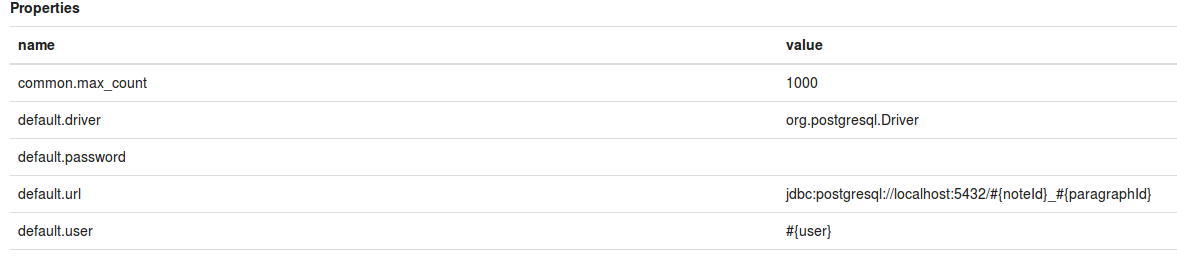
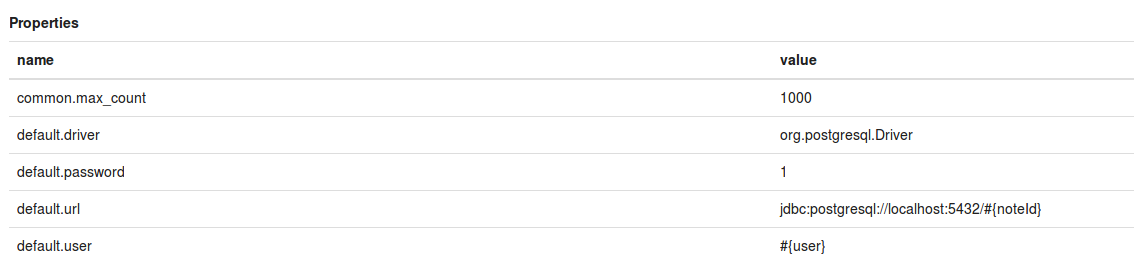
[ZEPPELIN-1999] skip fields of paragraph

diff --git a/zeppelin-interpreter/src/test/java/org/apache/zeppelin/interpreter/InterpreterTest.java b/zeppelin-interpreter/src/test/java/org/apache/zeppelin/interpreter/InterpreterTest.java
@@ -56,12 +56,14 @@ public class InterpreterTest {
   public void testPropertyWithReplacedContextFields() {
     String noteId = "testNoteId";
     String paragraphTitle = "testParagraphTitle";
+    String paragraphText = "testParagraphText";
+    String paragraphId = "testParagraphId";
     String user = "username";
     InterpreterContext.set(new InterpreterContext(noteId,
-        null,
+        paragraphId,
         null,
         paragraphTitle,
-        null,
+        paragraphText,
         new AuthenticationInfo("testUser", "testTicket"),
         null,
         null,
@@ -70,7 +72,7 @@ public class InterpreterTest {
         null,
         null));
     Properties p = new Properties();
-    p.put("p1", "paragraphTitle #{noteId}, #{paragraphTitle}, #{replName}, #{noteId}, #{user}," +
+    p.put("p1", "replName #{noteId}, #{paragraphTitle}, #{paragraphId}, #{paragraphText}, #{replName}, #{noteId}, #{user}," +
         " #{authenticationInfo}");
     MockInterpreterA intp = new MockInterpreterA(p);
     intp.setUserName(user);
@@ -78,8 +80,8 @@ public class InterpreterTest {
     InterpreterContext.remove();
 
     assertEquals(
-        String.format("paragraphTitle %s, %s, , %s, %s, #{authenticationInfo}", noteId,
-            paragraphTitle, noteId, user),
+        String.format("replName %s, #{paragraphTitle}, #{paragraphId}, #{paragraphText}, , %s, %s, #{authenticationInfo}", noteId,
+            noteId, user),
         actual
     );
   }

diff --git a/zeppelin-interpreter/src/main/java/org/apache/zeppelin/interpreter/Interpreter.java b/zeppelin-interpreter/src/main/java/org/apache/zeppelin/interpreter/Interpreter.java
@@ -310,6 +310,7 @@ public abstract class Interpreter {
     InterpreterContext interpreterContext = InterpreterContext.get();
     if (interpreterContext != null) {
       String markerTemplate = "#\\{%s\\}";
+      List<String> skipFields = Arrays.asList("paragraphTitle", "paragraphId", "paragraphText");
       List typesToProcess = Arrays.asList(String.class, Double.class, Float.class, Short.class,
           Byte.class, Character.class, Boolean.class, Integer.class, Long.class);
       for (String key : properties.stringPropertyNames()) {
@@ -317,7 +318,8 @@ public abstract class Interpreter {
         if (StringUtils.isNotEmpty(p)) {
           for (Field field : InterpreterContext.class.getDeclaredFields()) {
             Class clazz = field.getType();
-            if (typesToProcess.contains(clazz) || clazz.isPrimitive()) {
+            if (!skipFields.contains(field.getName()) && (typesToProcess.contains(clazz)
+                || clazz.isPrimitive())) {
               try {
                 Object value = FieldUtils.readField(field, interpreterContext, true);
                 p = p.replaceAll(String.format(markerTemplate, field.getName()),

diff --git a/docs/manual/interpreters.md b/docs/manual/interpreters.md
@@ -42,7 +42,7 @@ Zeppelin interpreter setting is the configuration of a given interpreter on Zepp
 <img src="../assets/themes/zeppelin/img/screenshots/interpreter_setting.png" width="500px">
 
 Properties are exported as environment variable when property name is consisted of upper characters, numbers and underscore ([A-Z_0-9]). Otherwise set properties as JVM property. 
-You may use parameters from the context of interpreter by add #{contextParameterName} in value, parameter can be of the following types: string, number, boolean. The list of available context parameters can be viewed in the class [InterpreterContext.java](https://github.com/apache/zeppelin/blob/master/zeppelin-interpreter/src/main/java/org/apache/zeppelin/interpreter/InterpreterContext.java) + parameter #{user}.
+You may use parameters from the context of interpreter by add #{contextParameterName} (except fields of paragraph) in value, parameter can be of the following types: string, number, boolean. The list of available context parameters can be viewed in the class [InterpreterContext.java](https://github.com/apache/zeppelin/blob/master/zeppelin-interpreter/src/main/java/org/apache/zeppelin/interpreter/InterpreterContext.java) + parameter #{user}.
 If context parameter is null then replaced by empty string.
 
 <img src="../assets/themes/zeppelin/img/screenshots/interpreter_setting_with_context_parameters.png" width="500px">
